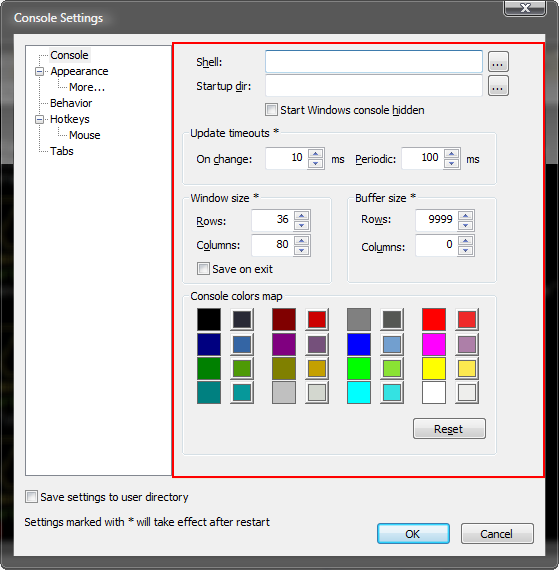
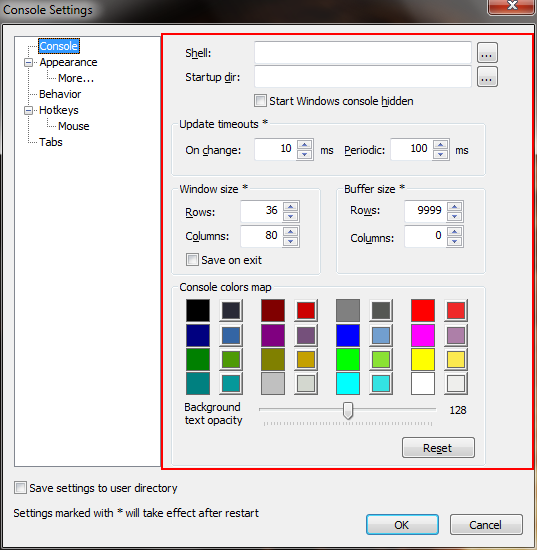
update documentation

Changed region(s): [[0.0, 0.0, 1.0, 1.0]]

diff --git a/help/html/introduction.html b/help/html/introduction.html
@@ -42,6 +42,9 @@
 		Console is hosted on <a href="http://sourceforge.net">Sourceforge</a>.
 		Get the latest news and updates <a href="http://sourceforge.net/projects/console">there</a>.
 	</p>
+	<p>
+		ConsoleZ is hosted on <a href="https://github.com/cbucher/console">github</a>.
+	</p>	
 </body>
 
 </html>

diff --git a/help/html/settings_console.html b/help/html/settings_console.html
@@ -103,6 +103,8 @@
 		square shows the original color. Clicking on the right square will 
 		bring up a color picker allowing you to select a new color.
 		<br />
+		The opacity of the background color can be adjusted.
+		<br />
 		Reset button will reset colors to their default values.
 	</p>
 
